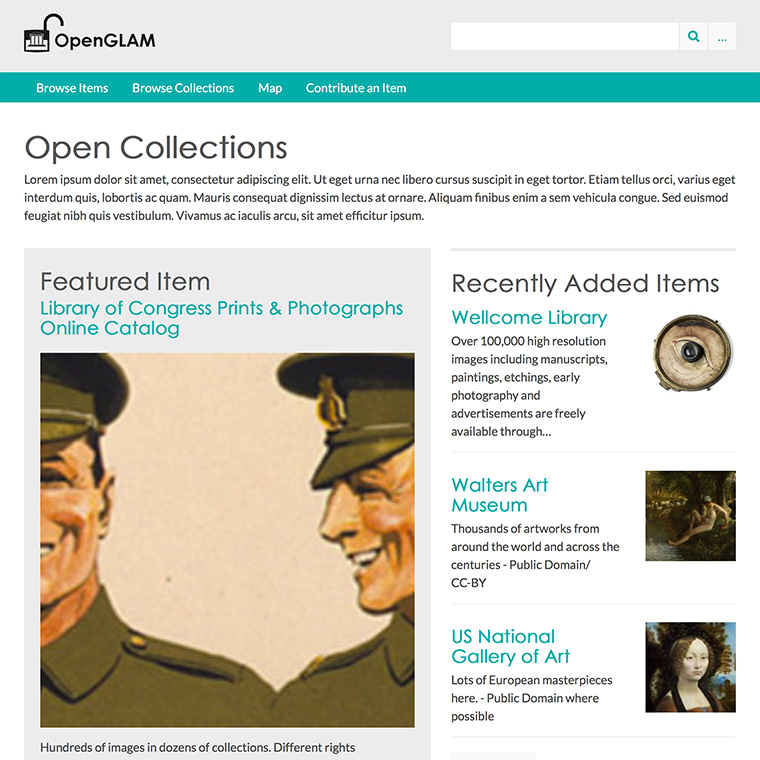
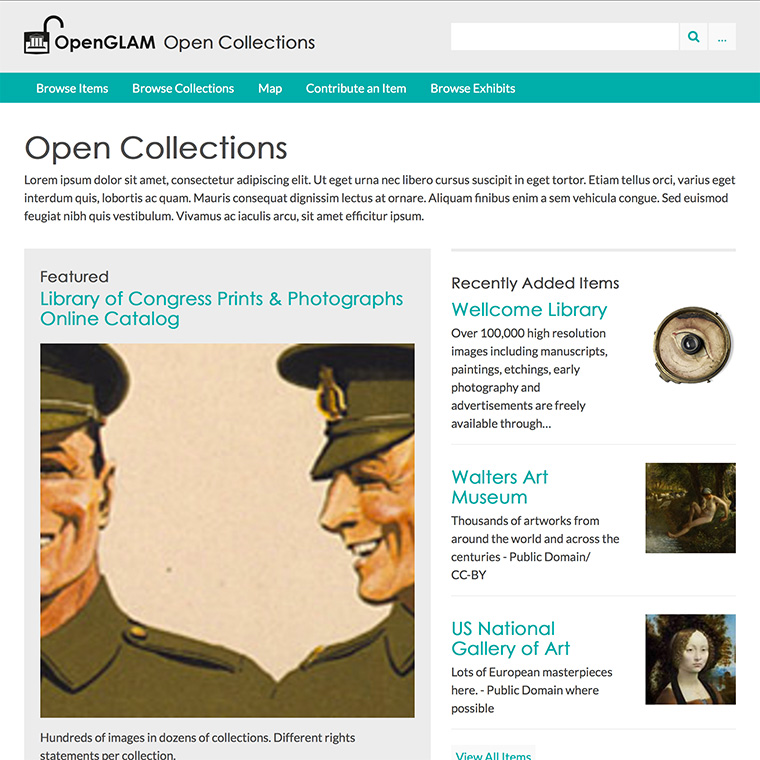
change featured headings

diff --git a/css/style.css b/css/style.css
@@ -559,7 +559,6 @@ p {
 #featured-collection,
 #featured-exhibit,
 #recent-items {
-  overflow: hidden;
   margin: 1em 0 0;
 }
 #featured-item h2, #featured-item #item-filters .collection, #item-filters #featured-item .collection,
@@ -1517,6 +1516,16 @@ body.files .item-file {
   height: auto;
   float: none;
 }
+#home [id^="featured-"] h2, #home [id^="featured-"] #item-filters .collection, #item-filters #home [id^="featured-"] .collection,
+#home .featured-exhibit h2,
+#home .featured-exhibit #item-filters .collection,
+#item-filters #home .featured-exhibit .collection,
+#home #recent-items h2,
+#home #recent-items #item-filters .collection,
+#item-filters #home #recent-items .collection {
+  font-size: 20px;
+  padding-top: 1.5em;
+}
 #home #featured-item {
   background-color: #ECECEC;
   padding: 21.33333px;
@@ -1540,6 +1549,16 @@ body.files .item-file {
 }
 #home #featured-collection h2, #home #featured-collection #item-filters .collection, #item-filters #home #featured-collection .collection {
   border: none;
+}
+#home .featured-exhibit h2, #home .featured-exhibit #item-filters .collection, #item-filters #home .featured-exhibit .collection {
+  margin-top: 1em;
+  padding-bottom: 0;
+}
+#home .featured-exhibit #featured-exhibit {
+  margin-top: 0;
+}
+#home .featured-exhibit #featured-exhibit h2, #home .featured-exhibit #featured-exhibit #item-filters .collection, #item-filters #home .featured-exhibit #featured-exhibit .collection {
+  display: none;
 }
 #home #recent-items h2, #home #recent-items #item-filters .collection, #item-filters #home #recent-items .collection {
   margin-bottom: 0.3em;
@@ -2299,6 +2318,9 @@ body.files .item-file {
   }
   #home #featured-item .record .image {
     position: static;
+  }
+  #home .featured-exhibit h2, #home .featured-exhibit #item-filters .collection, #item-filters #home .featured-exhibit .collection {
+    padding-right: 150px;
   }
 }
 /* -------------------------------------------------------------------------*/

diff --git a/css/sass/_screen.scss b/css/sass/_screen.scss
@@ -115,7 +115,6 @@ p {
 #featured-collection,
 #featured-exhibit, 
 #recent-items {
-    overflow: hidden;
     margin:1em 0 0;
     
     h2, 
@@ -946,6 +945,15 @@ body.files .item-file {
     }
   }
   
+  [id^="featured-"],
+  .featured-exhibit,
+  #recent-items {
+    h2 {
+      font-size:20px;
+      padding-top:1.5em;
+    }
+  }
+  
   #featured-item {
     @include boxed;
     
@@ -980,6 +988,20 @@ body.files .item-file {
     }
   }
   
+  .featured-exhibit {
+    h2 {
+      margin-top:1em;
+      padding-bottom:0;
+    }
+    #featured-exhibit {
+      margin-top:0;
+      
+      h2 {
+        display:none;
+      }
+    }
+  }
+
   #recent-items {
     h2 {
       margin-bottom:0.3em;

diff --git a/css/sass/_screen_40em_min.scss b/css/sass/_screen_40em_min.scss
@@ -455,4 +455,10 @@
       }
     }
   }
+  
+  .featured-exhibit {
+    h2 {
+      padding-right:150px;
+    }
+  }
 }

diff --git a/index.php b/index.php
@@ -8,7 +8,7 @@
     <?php if (get_theme_option('Display Featured Item') !== '0'): ?>
     <!-- Featured Item -->
     <div id="featured-item">
-        <h2><?php echo __('Featured Item'); ?></h2>
+        <h2><?php echo __('Featured'); ?></h2>
         <?php echo random_featured_items(1); ?>
     </div><!--end featured-item-->
     <?php endif; ?>
@@ -16,7 +16,7 @@
     <?php if (get_theme_option('Display Featured Collection') !== '0'): ?>
     <!-- Featured Collection -->
     <div id="featured-collection">
-        <h2><?php echo __('Featured Collection'); ?></h2>
+        <h2><?php echo __('Featured'); ?></h2>
         <?php echo random_featured_collection(); ?>
     </div><!-- end featured collection -->
     <?php endif; ?>
@@ -25,7 +25,10 @@
             && plugin_is_active('ExhibitBuilder')
             && function_exists('exhibit_builder_display_random_featured_exhibit')): ?>
     <!-- Featured Exhibit -->
+    <div class="featured-exhibit">
+    <h2><?php echo __('Featured'); ?></h2>
     <?php echo exhibit_builder_display_random_featured_exhibit(); ?>
+    </div>
     <?php endif; ?>
     
     <?php if (get_theme_option('homepage_text_two')): ?>
